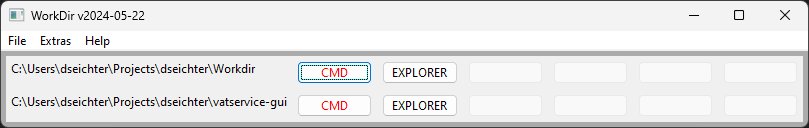
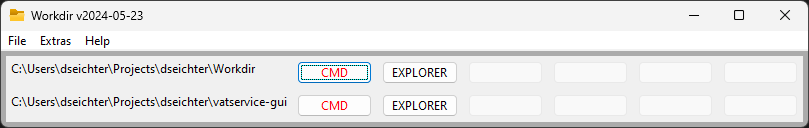
#7 Add new screenshots to Readme

Changed region(s): [[0.0618, 0.0625, 0.1854, 0.1562], [0.0, 0.0625, 0.0309, 0.1875]]

diff --git a/src/helper.py b/src/helper.py
@@ -2,7 +2,7 @@ import urllib3
 import json
 import logging
 
-VERSION = "v2024-05-22"
+VERSION = "v2024-05-23"
 URL = 'https://api.github.com/repos/dseichter/Workdir/releases/latest'
 NAME = 'Workdir'
 LICENCE = 'GPL-3.0'
